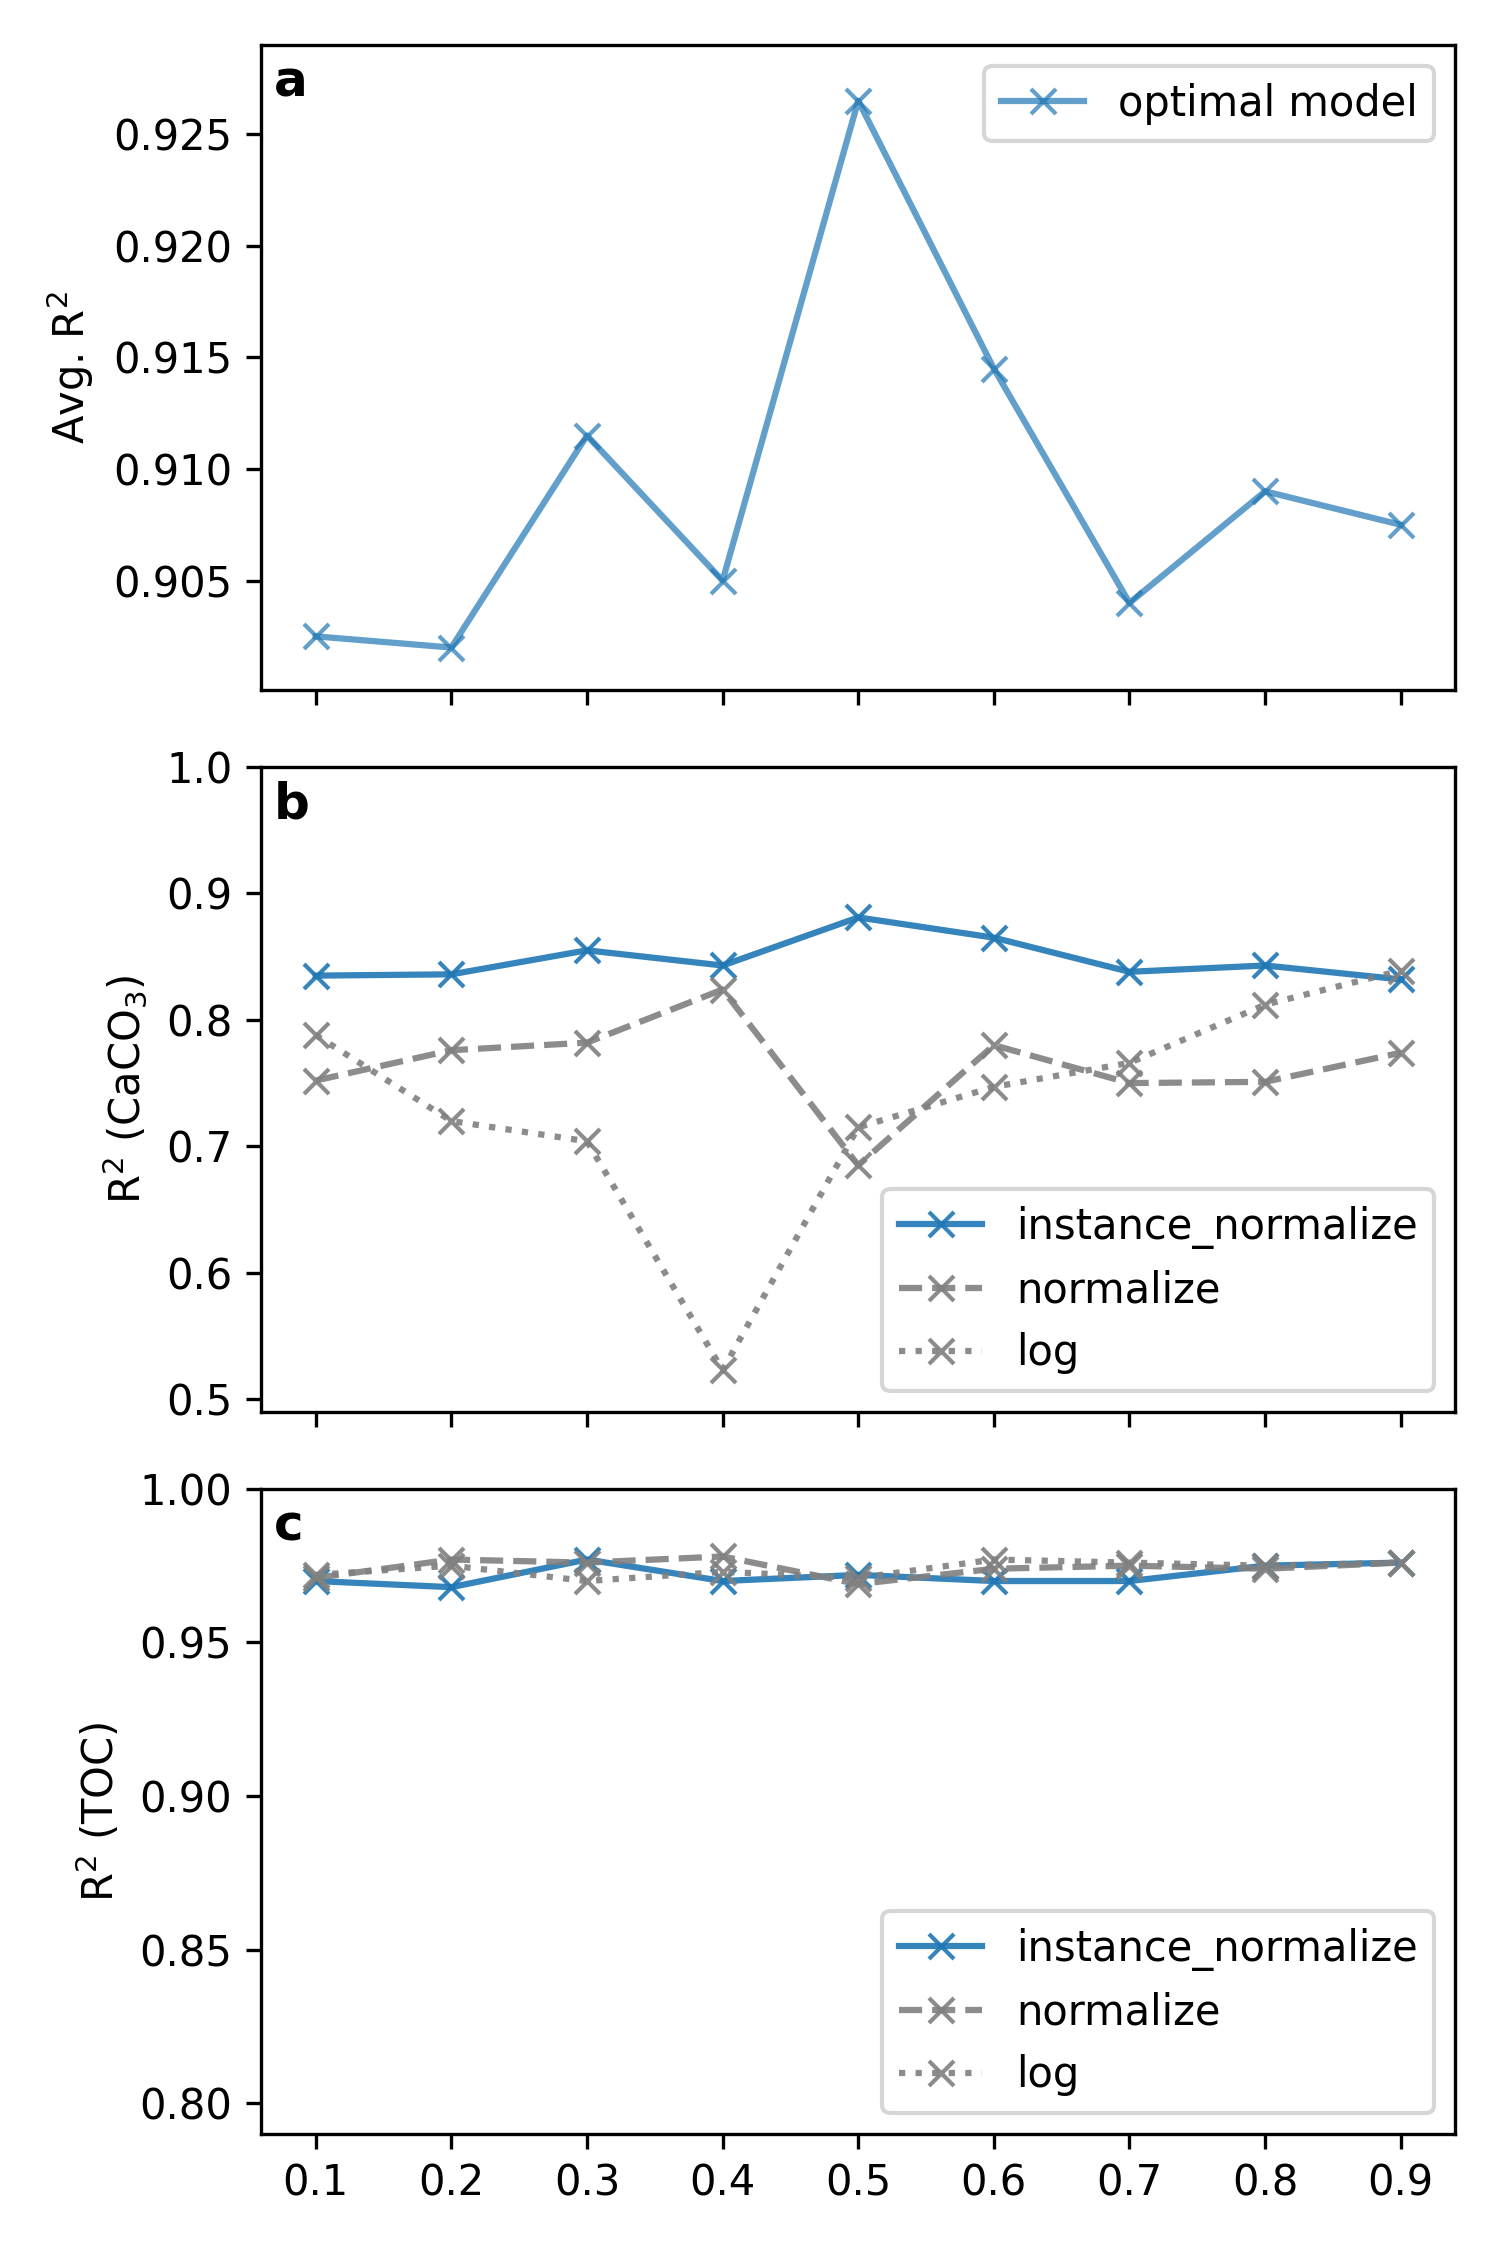
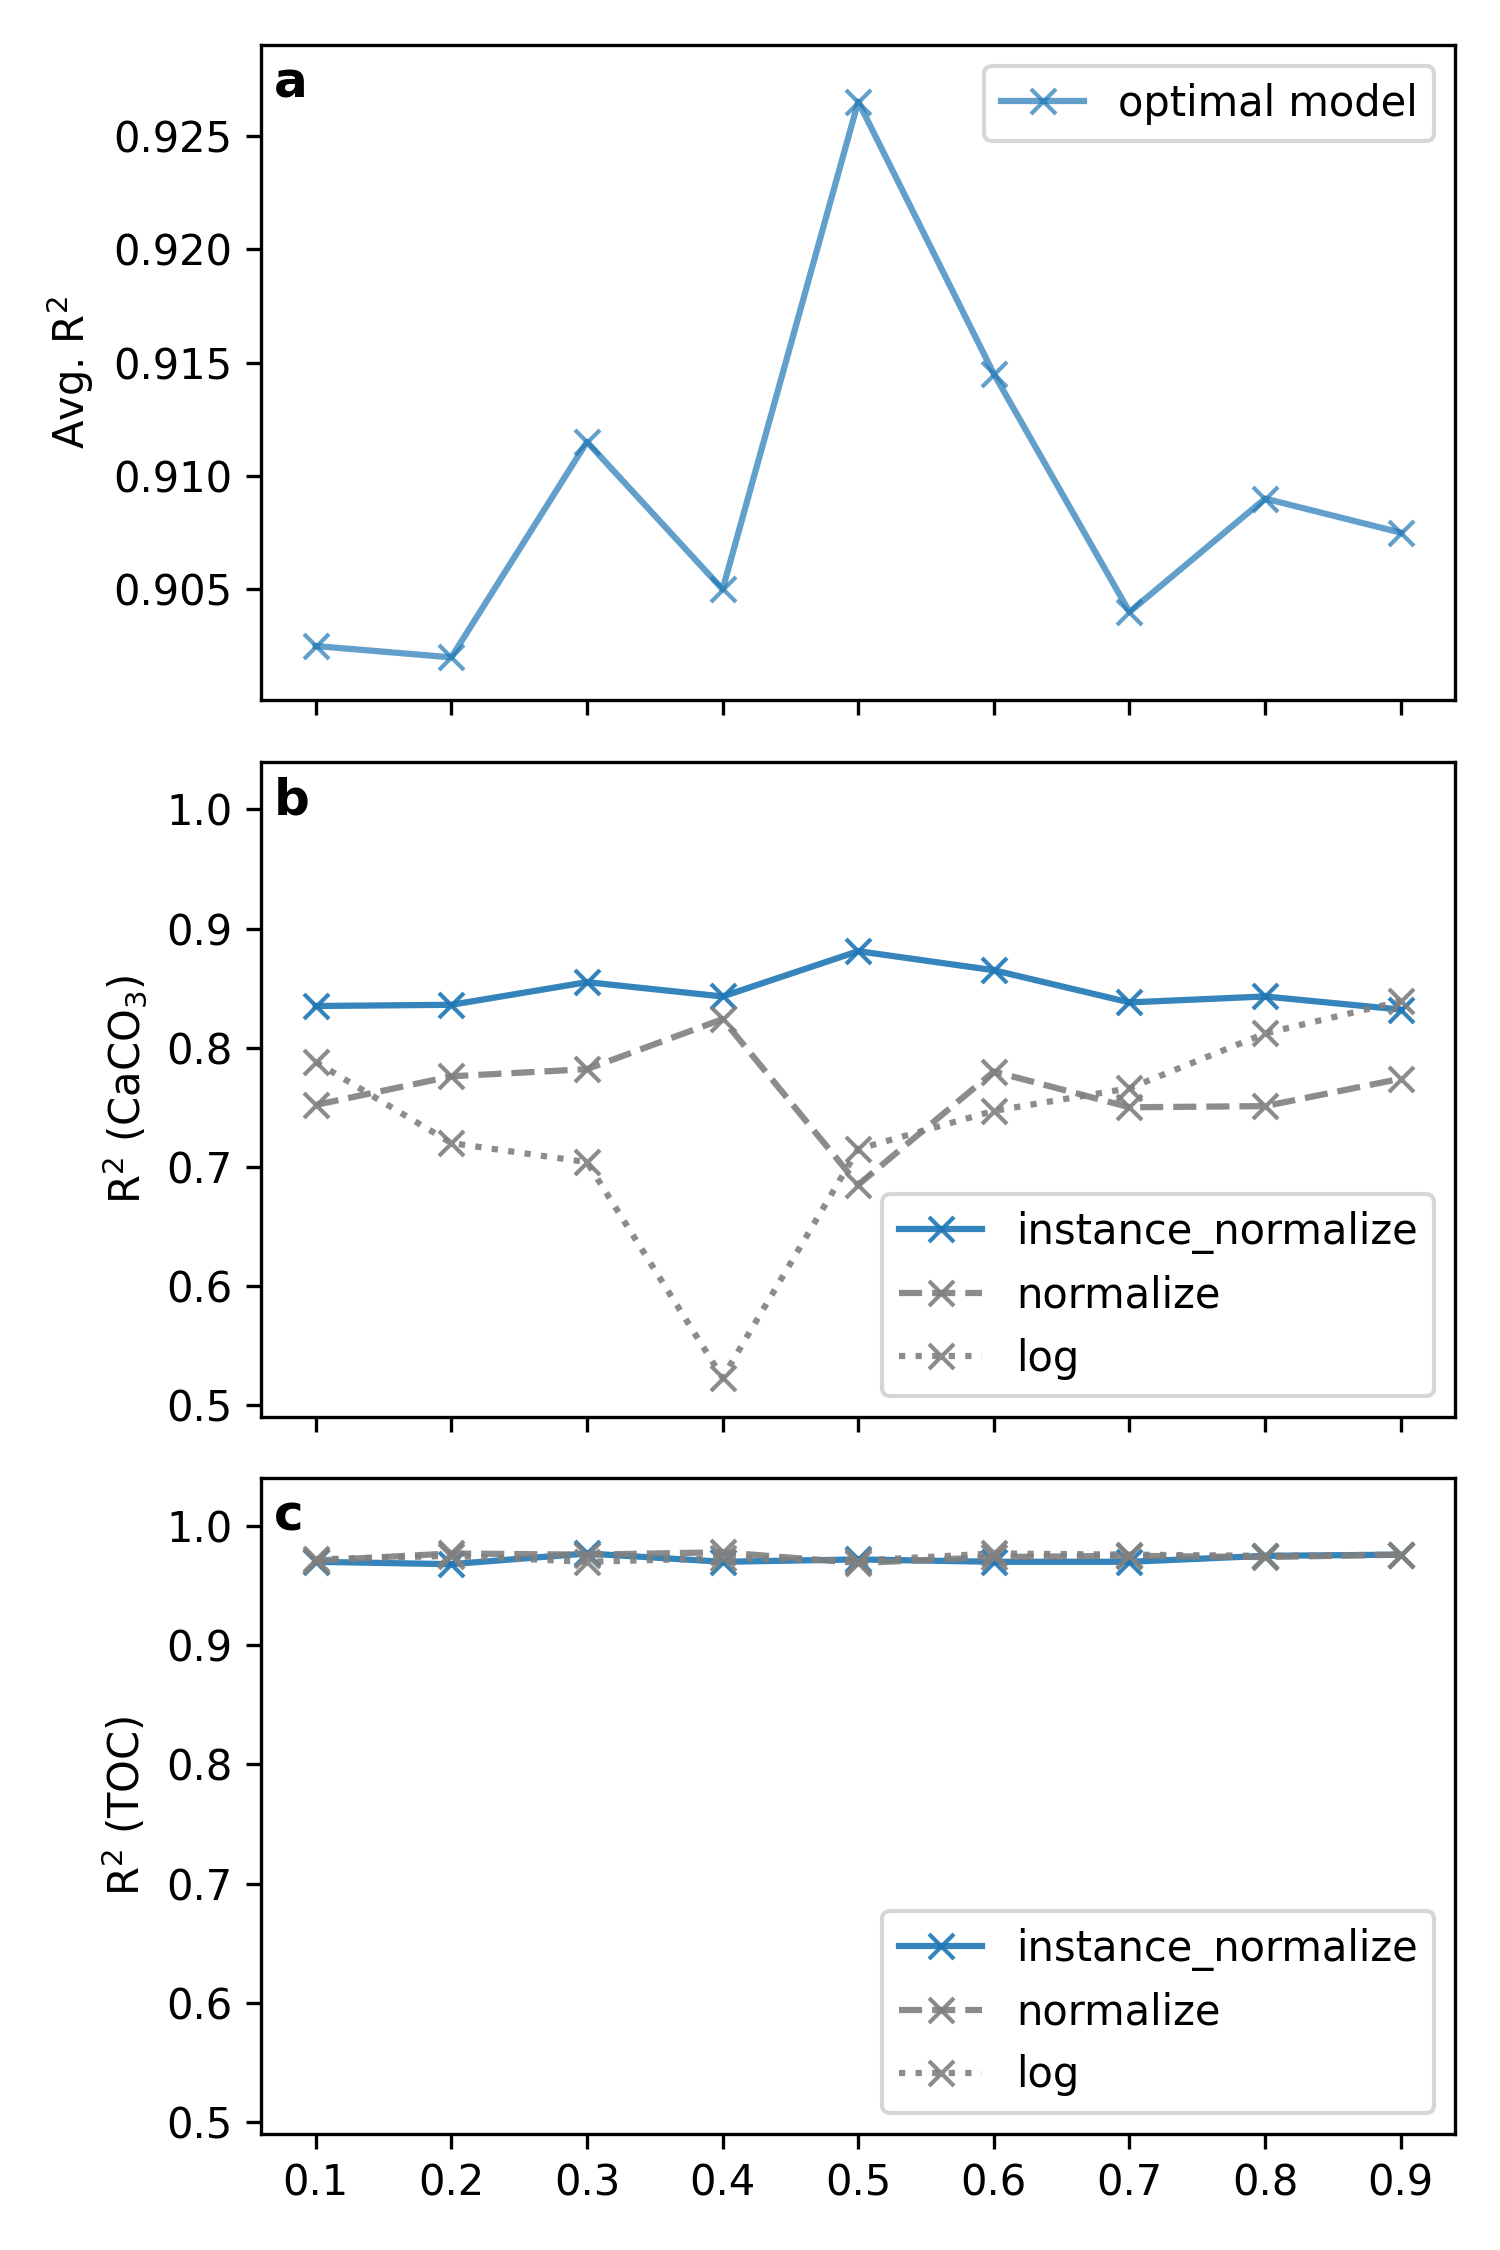
Minor modification

diff --git a/visualize.py b/visualize.py
@@ -322,7 +322,7 @@ def detailed_performance_mask_ratio_val():
 
     ylabels = ["Avg. R$^2$", "R$^2$ (CaCO$_3$)", "R$^2$ (TOC)"]
     indices = ["a", "b", "c"]
-    ylims = [(0.9001, 0.929), (0.49, 1), (0.79, 1)]
+    ylims = [(0.9001, 0.929), (0.49, 1.04), (0.49, 1.04)]
     legend_locs = ["upper right", "lower right", "lower right"]
 
     for i, ax in enumerate(axes):
